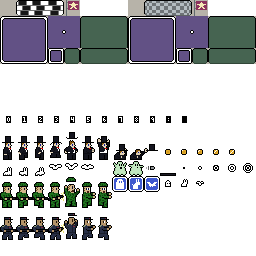
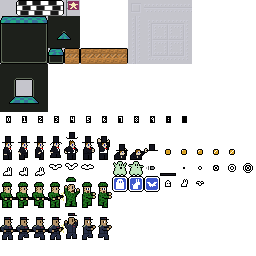
properer terrain graphics. I think we're done.

Changed region(s): [[0.0, 0.0, 1.0, 0.4375]]

diff --git a/README.md b/README.md
@@ -23,13 +23,13 @@ I'm American and I forgot that the game's inspiration, _Licence to Kill_, is Bri
 - [x] sprite_soldier, we have walking tiles, but didn't implement idle walking.
 - [x] Should soldier defunct after some time, when spooked and horizontally blocked?
 - [x] Soldiers tend to accidentally fall off platforms. I guess we do need to be exact in the path selection.
-- [ ] Final pass: Ensure all powerup index are unique, and powerups come before active sprites in the command list.
+- [x] Final pass: Ensure all powerup index are unique, and powerups come before active sprites in the command list.
 - [x] Can step off goal and cause it to reload current map. Oops. Should be that once you touch the goal, you will win, even if you leave it.
 - - ...tightened up clocks and drop some inputs when we're fading out. It's still technically possible to un-win, but shouldn't happen by accident.
 - [x] Sometimes I fall thru a oneway when dropping on to it.
 - - Might take a hundred tries but yes, a simple non-walking jump can do it at the first oneway in level 1. Short jumps, needn't go all the way up.
 - - ...failed to account for SMIDGE in the previous position. Corrected, and ran >100 reps with no fall-thru.
-- [ ] Prettier scenery.
+- [x] Prettier scenery.
 - [ ] Itch page.
 - [x] Need some hard reset option! Esp at the very end, if you scare the last guard, you can't win and maybe can't die either.
 - - AUX1 to pause, with "Restart Level" and "Main Menu" options.
